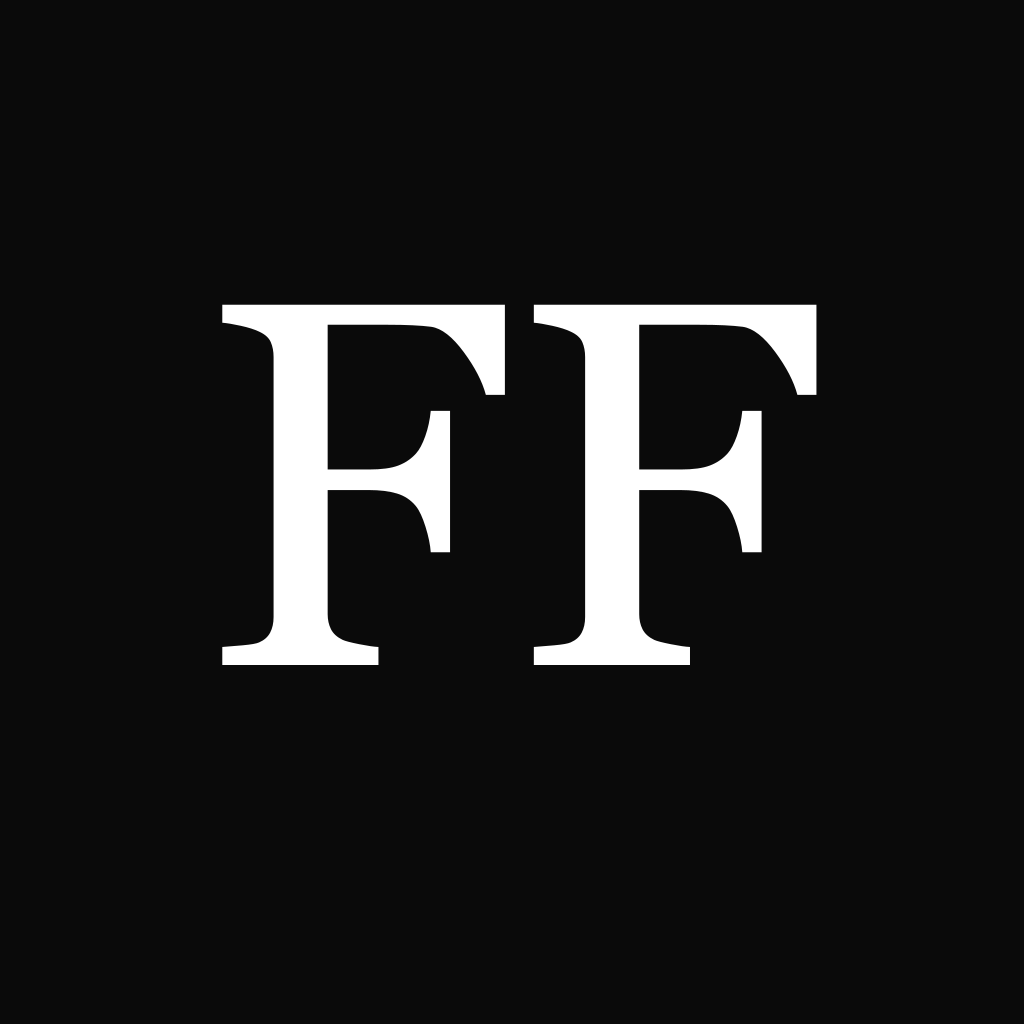
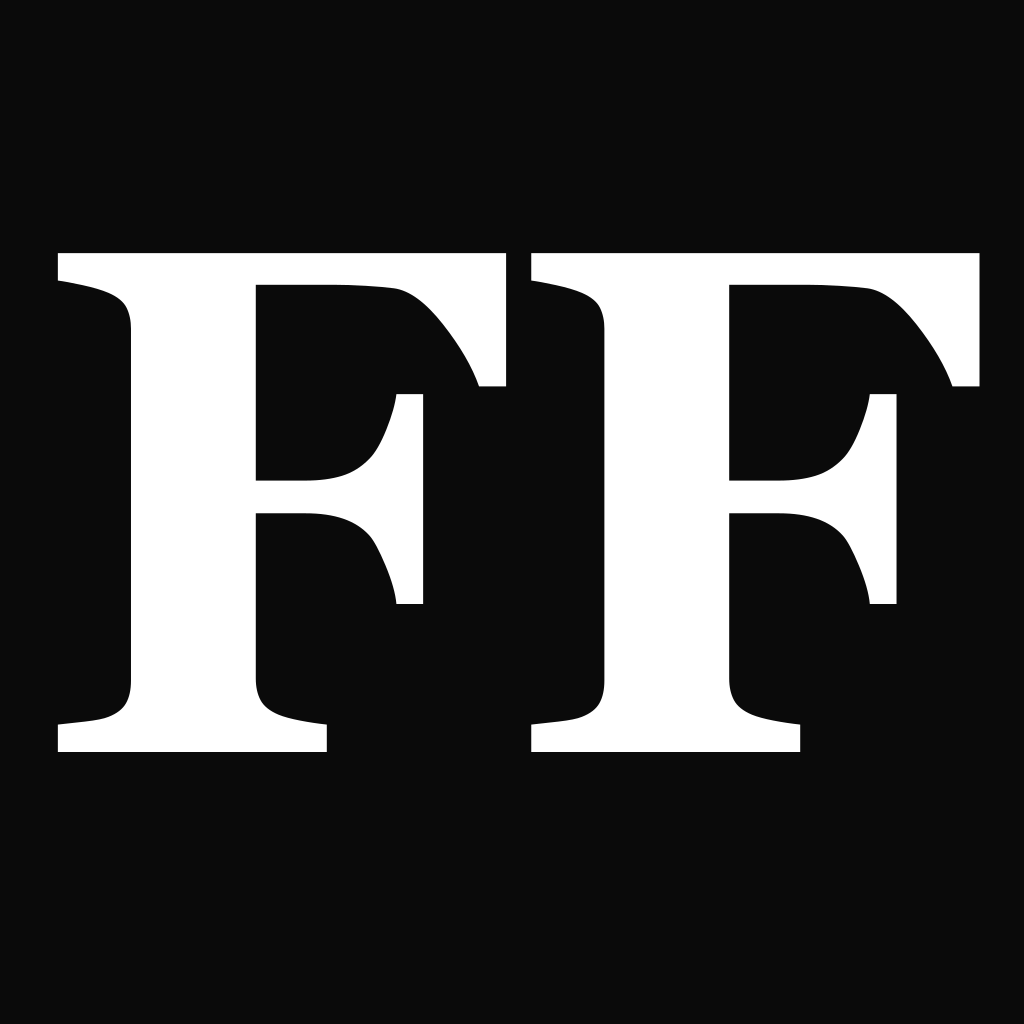
History loading skeleton, ScanFab jogi oldalakon rejtve, nagyobb app-ikon
- app/history/loading.tsx: azonnali skeleton (a sok scan miatti lassú
  szerver-fetch alatt a menü responsive marad)
- ScanFab HIDDEN_PATHS: /terms, /privacy, /cookies (jogi oldalakon nincs FAB)
- app-ikon: az FF betűk nagyobbak + boldabbak (eddig elvesztek az ikonban),
  ios + android ikonok újragenerálva

Changed region(s): [[0.0312, 0.25, 0.9688, 0.75], [0.4375, 0.3438, 0.5, 0.4062]]

diff --git a/fitflip/app/history/loading.tsx b/fitflip/app/history/loading.tsx
@@ -1,0 +1,35 @@
+import Link from "next/link";
+
+// Instant loading UI for the history route. Next.js streams this immediately on
+// navigation, so the menu tap feels responsive while the server fetches the
+// (potentially long) scan history + signed image URLs in the background.
+export default function HistoryLoading() {
+  return (
+    <main className="min-h-dvh flex flex-col">
+      <header className="px-6 pb-5 safe-pt-5 flex items-center justify-between border-b border-ink-100 dark:border-ink-700">
+        <Link href="/" className="flex items-baseline gap-2">
+          <span className="text-xl font-display tracking-tight">FitFlip</span>
+          <span className="text-xs text-ink-500 dark:text-ink-400 hidden sm:inline">.app</span>
+        </Link>
+      </header>
+
+      <section className="flex-1 px-6 py-10 max-w-2xl mx-auto w-full">
+        <div className="h-9 w-40 mb-8 rounded-lg bg-ink-100 dark:bg-ink-800 animate-pulse" />
+        <div className="space-y-3">
+          {[0, 1, 2, 3, 4].map((i) => (
+            <div
+              key={i}
+              className="flex items-center gap-4 p-3 rounded-2xl border border-ink-100 dark:border-ink-700"
+            >
+              <div className="w-16 h-16 rounded-xl bg-ink-100 dark:bg-ink-800 animate-pulse shrink-0" />
+              <div className="flex-1 space-y-2">
+                <div className="h-4 w-2/3 rounded bg-ink-100 dark:bg-ink-800 animate-pulse" />
+                <div className="h-3 w-1/3 rounded bg-ink-100 dark:bg-ink-800 animate-pulse" />
+              </div>
+            </div>
+          ))}
+        </div>
+      </section>
+    </main>
+  );
+}

diff --git a/fitflip/components/ScanFab.tsx b/fitflip/components/ScanFab.tsx
@@ -7,7 +7,7 @@ import { haptic } from "@/lib/haptics";
 import { setPendingScanFile } from "@/lib/pendingScan";
 
 // Routes where the floating scan button should NOT appear.
-const HIDDEN_PATHS = ["/", "/account", "/welcome", "/pro", "/login", "/signup", "/forgot-password", "/reset-password", "/auth"];
+const HIDDEN_PATHS = ["/", "/account", "/welcome", "/pro", "/login", "/signup", "/forgot-password", "/reset-password", "/auth", "/terms", "/privacy", "/cookies"];
 
 /**
  * Fixed bottom-centre "scan" button shown on every page except the home
